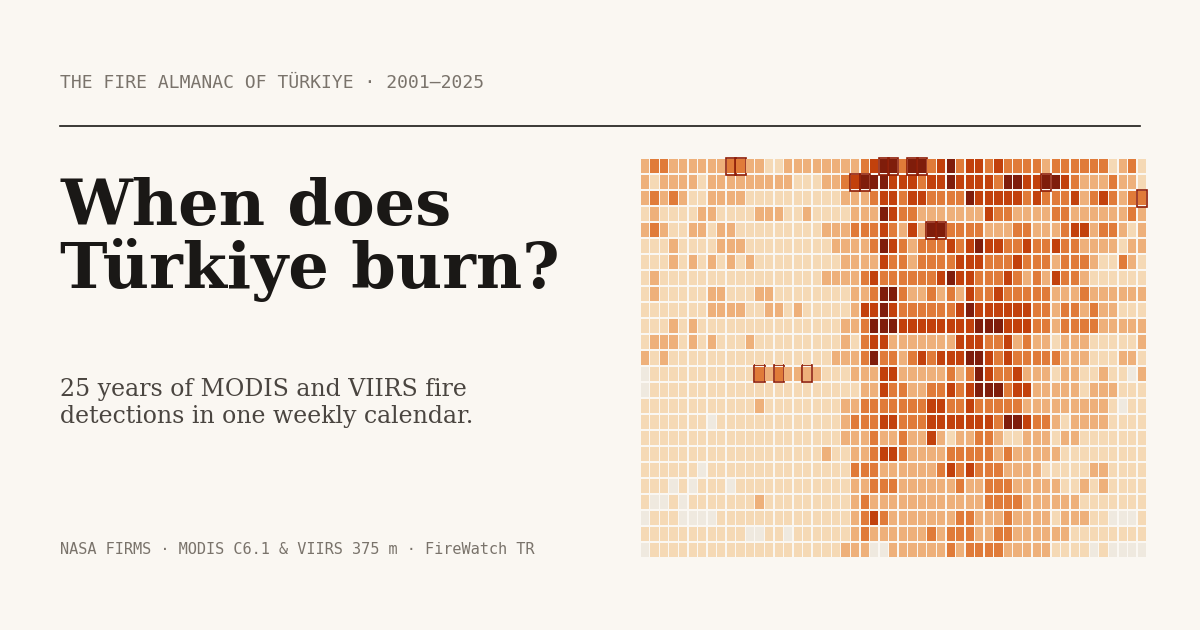
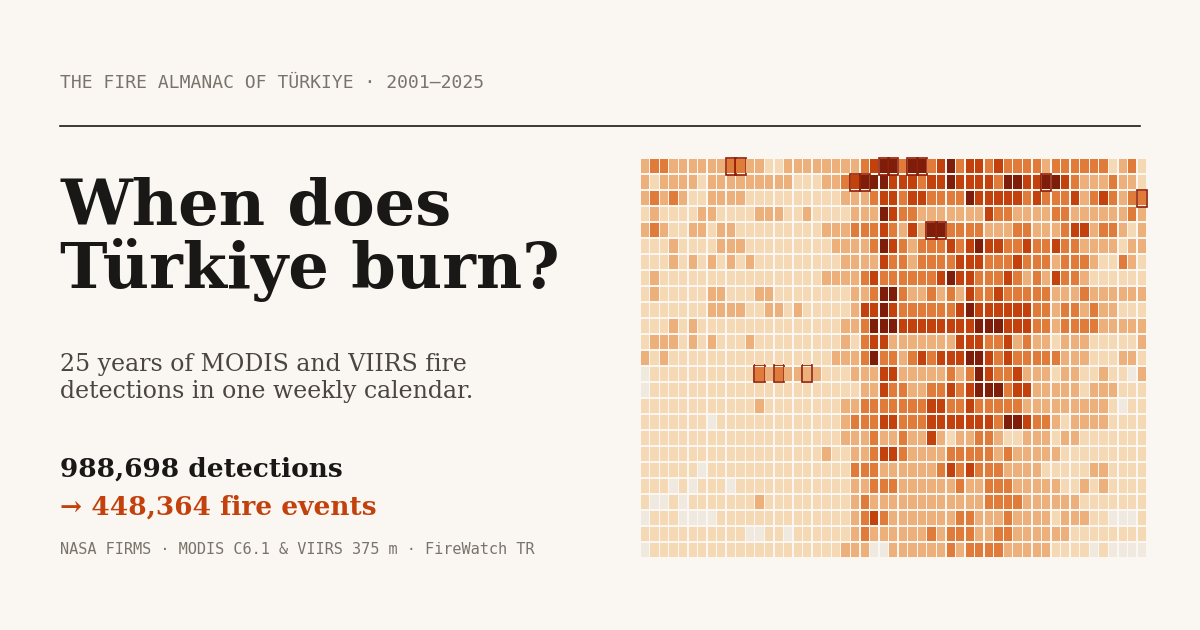
Refresh app screenshot and OG cover with final counts, add GISTEMP climate figure, drop season-length trend from results

Changed region(s): [[0.0308, 0.5429, 0.4008, 0.6937], [0.0308, 0.7238, 0.3083, 0.754], [0.0617, 0.7841, 0.3083, 0.8143]]

diff --git a/src/present_figures.py b/src/present_figures.py
@@ -201,7 +201,10 @@ def og_cover():
     fig.patch.set_facecolor(PAPER)
     fig.text(0.05, 0.86, "THE FIRE ALMANAC OF TÜRKIYE · 2001–2025", family="monospace", fontsize=13, color=MUTED)
     fig.text(0.05, 0.62, "When does\nTürkiye burn?", fontsize=46, fontweight="bold", color=INK, va="center", linespacing=1.0)
-    fig.text(0.05, 0.36, "25 years of MODIS and VIIRS fire\ndetections in one weekly calendar.", fontsize=17, color=INK2, va="center")
+    fig.text(0.05, 0.40, "25 years of MODIS and VIIRS fire\ndetections in one weekly calendar.", fontsize=17, color=INK2, va="center")
+    n_det, n_ev = int(r["det_modis"].sum() + r["det_viirs"].sum()), int(r["new_events"].sum())
+    fig.text(0.05, 0.255, f"{n_det:,} detections", fontsize=19, fontweight="bold", color=INK, va="center")
+    fig.text(0.05, 0.195, f"→ {n_ev:,} fire events", fontsize=19, fontweight="bold", color=ACCENT, va="center")
     fig.text(0.05, 0.12, "NASA FIRMS · MODIS C6.1 & VIIRS 375 m · FireWatch TR", family="monospace", fontsize=11, color=MUTED)
     fig.add_artist(plt.Line2D([0.05, 0.95], [0.80, 0.80], color=INK, lw=1.2, transform=fig.transFigure))
     ax = fig.add_axes([0.53, 0.10, 0.43, 0.66])
@@ -225,6 +228,73 @@ def og_cover():
     print("wrote docs/og.png, docs/og-icon.png")
 
 
+def fig_climate():
+    """Global temperature anomaly (NASA GISTEMP v4, J-D) vs Türkiye's yearly fire energy, 2001-2025.
+
+    Fire energy is the MODIS-only record (Terra+Aqua, inside the 81 provinces): it is the only
+    sensor-consistent series for the whole period. The harmonized/VIIRS totals rise when new VIIRS
+    satellites join (2012, 2018, 2023), which would correlate with any upward trend, so their r is
+    reported for comparison only. Correlation, not causation.
+    """
+    g = pd.read_csv(ROOT / "data" / "gistemp" / "GLB.Ts+dSST.csv", skiprows=1, na_values="***")
+    g = g[g["Year"].between(2001, 2025)].set_index("Year")["J-D"].astype(float)
+    cal = json.loads((OUT / "calendar_daily.json").read_text(encoding="utf-8"))
+    tot = {}
+    for mode in ("modis", "harmonized"):
+        r = pd.DataFrame(cal["records"][mode]["TR"])
+        tot[mode] = r.groupby(pd.to_datetime(r["day"]).dt.year)["frp_mw"].sum().reindex(g.index).fillna(0)
+    y = tot["modis"] / 1000  # GW
+    pr, sr = stats.pearsonr(g, y), stats.spearmanr(g, y)
+    yrs = g.index.to_numpy()
+    detr = lambda v: v - np.polyval(np.polyfit(yrs, v, 1), yrs)
+    pd_ = stats.pearsonr(detr(g.to_numpy()), detr(y.to_numpy()))
+    ph = stats.pearsonr(g, tot["harmonized"])
+    res = {"years": [int(yrs[0]), int(yrs[-1])], "n": int(len(yrs)),
+           "gistemp_series": "GISTEMP v4 global land-ocean, annual (J-D), anomaly vs 1951-1980 (deg C)",
+           "frp_series": "MODIS Terra+Aqua, yearly sum of daily FRP inside Türkiye (MW)",
+           "modis": {"pearson_r": round(float(pr[0]), 3), "p": round(float(pr[1]), 3),
+                     "spearman_rho": round(float(sr[0]), 3), "spearman_p": round(float(sr[1]), 3),
+                     "detrended_pearson_r": round(float(pd_[0]), 3), "detrended_p": round(float(pd_[1]), 3)},
+           "harmonized_for_comparison": {"pearson_r": round(float(ph[0]), 3), "p": round(float(ph[1]), 4),
+                                         "note": "inflated by VIIRS satellites joining in 2012, 2018, 2023"}}
+    (OUT / "climate.json").write_text(json.dumps(res, indent=2, ensure_ascii=False), encoding="utf-8")
+
+    fig = plt.figure(figsize=(13, 5.6))
+    gs = fig.add_gridspec(2, 2, width_ratios=[1.75, 1], height_ratios=[1, 1.35], hspace=0.12, wspace=0.22)
+    a1 = fig.add_subplot(gs[0, 0])
+    a2 = fig.add_subplot(gs[1, 0], sharex=a1)
+    a3 = fig.add_subplot(gs[:, 1])
+    a1.plot(yrs, g, "-o", color=INK, ms=3.5, lw=1.6)
+    a1.set_ylabel("global temp.\nanomaly (°C)")
+    a1.tick_params(labelbottom=False)
+    a1.set_title("Global temperature and Türkiye's fire energy, 2001–2025", fontsize=13.5)
+    cols = [ACCENT if yy == 2021 else MODIS for yy in yrs]
+    a2.bar(yrs, y, 0.72, color=cols)
+    a2.set_ylabel("fire energy (GW,\nMODIS, yearly sum)")
+    a2.text(2021, y.loc[2021], "2021", ha="center", va="bottom", fontsize=9, color=ACCENT)
+    a3.scatter(g, y, s=34, color=MODIS, edgecolor=PAPER, lw=0.6, zorder=3)
+    a3.scatter([g.loc[2021]], [y.loc[2021]], s=46, color=ACCENT, zorder=4)
+    for yy in (2001, 2009, 2021, 2025):
+        a3.annotate(str(yy), (g.loc[yy], y.loc[yy]), xytext=(5, 3), textcoords="offset points", fontsize=8.5,
+                    color=ACCENT if yy == 2021 else INK2)
+    a3.set_xlabel("global temperature anomaly (°C)")
+    a3.set_ylabel("fire energy (GW)")
+    m = res["modis"]
+    a3.set_title(f"Pearson r = {m['pearson_r']:.2f} (p = {m['p']:.2f})", fontsize=12)
+    a3.text(0.98, 0.97, f"Spearman ρ = {m['spearman_rho']:.2f} (p = {m['spearman_p']:.2f})\n"
+                        f"detrended r = {m['detrended_pearson_r']:.2f}\nn = {res['n']} years",
+            transform=a3.transAxes, fontsize=9, color=INK2, va="top", ha="right", family="monospace")
+    fig.text(0.01, -0.035,
+             "Sources: NASA FIRMS; NASA GISTEMP. Fire energy: MODIS Terra+Aqua only (Aqua from Jul 2002), the "
+             "sensor-consistent record.\nThe merged MODIS+VIIRS total gives r = "
+             f"{res['harmonized_for_comparison']['pearson_r']:.2f}, mostly because VIIRS satellites joined in "
+             "2012, 2018 and 2023. Correlation, not causation.",
+             fontsize=8.5, color=MUTED, family="monospace", ha="left", va="top")
+    fig.savefig(FIG / "slide_climate.png", dpi=300, bbox_inches="tight", pad_inches=0.25)
+    plt.close(fig)
+    print("wrote", FIG / "slide_climate.png", res["modis"])
+
+
 if __name__ == "__main__":
     fig_2021()
     fig_before_after()
@@ -232,3 +302,4 @@ if __name__ == "__main__":
     fig_match()
     fig_dedup()
     og_cover()
+    fig_climate()

diff --git a/README.md b/README.md
@@ -25,7 +25,7 @@ covers parts of neighbouring countries; those events are kept in the files but n
 | Harmonized fire events inside Türkiye | **448,364** (2.2 detections per event) |
 | Seen by both sensors / MODIS only / VIIRS only | 7.8% / 22.9% / 69.2% of events (8.7% of fire-days seen by both) |
 | Most unusual week, Türkiye, fire energy | **26 Jul – 1 Aug 2021**: 601,798 MW, 35× the 2012–2025 mean for that week (z = 54); next: 2–8 Aug 2021 (z = 17) |
-| Fire-season length trend | **+4.9 days/yr** (MODIS, 2001–2025, p < 0.001) and **+7.0 days/yr** (VIIRS S-NPP, 2012–2025, p = 0.014); no significant trend in total FRP |
+| Yearly fire energy vs global temperature (NASA GISTEMP) | MODIS record, 2001–2025: Pearson r = 0.10 (p = 0.64), no detectable relationship; no significant trend in total FRP |
 
 **The 2021 check.** Summer 2021 (Manavgat, Marmaris) is the strongest anomaly in the
 whole archive when activity is measured as fire energy. Nationally, however, it is
@@ -88,6 +88,14 @@ from the pipeline outputs.
 
 Source: NASA FIRMS (Fire Information for Resource Management System),
 <https://firms.modaps.eosdis.nasa.gov/>. Standard-processing (science-quality) archive.
+
+| Climate product | Provider | Resolution | Used period |
+|---|---|---|---|
+| GISTEMP v4 global land-ocean temperature anomaly (annual J-D, vs 1951–1980) | NASA GISS | global mean | 2001–2025 |
+
+Source: NASA Goddard Institute for Space Studies, <https://data.giss.nasa.gov/gistemp/>
+(open CSV `tabledata_v4/GLB.Ts+dSST.csv`, no key; copy in `data/gistemp/`). Used only for
+the climate comparison figure.
 
 **How the data was fetched.** `src/fetch_firms.py` downloaded the four standard-processing
 sources (`MODIS_SP`, `VIIRS_SNPP_SP`, `VIIRS_NOAA20_SP`, `VIIRS_NOAA21_SP`) through the FIRMS
@@ -193,17 +201,21 @@ All numbers come from `output/validation.json` (written by `src/validate.py`).
 | `figures/frp_scatter.png`, `figures/slide_frp_scatter.png` | FRP of Aqua vs S-NPP/NOAA-20 for the same event, passes ≤ 30 min apart | n = 25,171 pairs; **Pearson r (log) = 0.69**, Spearman ρ = 0.63, log-log slope 0.78; median VIIRS/MODIS ratio 0.81 (day r = 0.69, night r = 0.74) |
 | `figures/dedup.png`, `figures/slide_dedup.png` | Raw detections vs harmonized events per year (whole download box) | 1,423,446 → 598,750 (**2.4×**); the ratio rises after 2012, 2018 and 2023 as VIIRS satellites add repeat looks |
 | `figures/small_fire_example.png` | FRP distribution of VIIRS-only vs both-sensor events, and one small fire missed by MODIS | VIIRS-only events: median max FRP **3.8 MW** vs 20.2 MW for both-sensor events. Example H478349 (Ankara, 24–25 Oct 2023): 4 VIIRS detections on 4 passes, max 0.9 MW, **no MODIS detection within 15 km** |
-| `figures/insight.png` | Season start/end/length and total FRP per year, single-sensor records, Theil–Sen + Kendall | Season length +4.9 d/yr (MODIS, p < 0.001) and +7.0 d/yr (S-NPP, p = 0.014), mostly from later season ends; season start earlier for MODIS (p = 0.003) but not significant for S-NPP (p = 0.08); **no significant trend in total FRP** (p = 0.50 / 0.91) |
+| `figures/insight.png` | Season start/end/length and total FRP per year, single-sensor records, Theil–Sen + Kendall **No significant trend in total FRP** (p = 0.50 / 0.91). The 10–90% season-length statistic also shows a positive slope, but it is not used as a result (see Limitations) |
 | `figures/calendar_2021_check.png`, `figures/slide_2021_unusual.png` | Türkiye 2021 weekly totals vs leave-one-out mean | FRP weeks 30–31: z = 54 and 17; event counts: not anomalous (see above) |
 
 **Slide figures** (`src/present_figures.py`, 300 dpi, paper background):
 `figures/slide_2021_unusual.png` (summer 2021 flagged in the calendar),
 `figures/slide_before_after.png` (29 July 2021, Manavgat: 1,540 detections → 3 events),
 `figures/slide_frp_scatter.png` (r = 0.69), `figures/slide_match_rates.png` and
-`figures/slide_dedup.png` (raw detections vs fire events per year).
+`figures/slide_dedup.png` (raw detections vs fire events per year) and
+`figures/slide_climate.png` (yearly fire energy vs NASA GISTEMP, r = 0.10).
 
-The season-length trend counts all vegetation fires, including agricultural burning;
-it does not by itself say why seasons got longer.
+`figures/slide_climate.png` compares NASA GISTEMP v4 global annual temperature anomaly with
+Türkiye's yearly fire energy from the MODIS record (the only sensor-consistent series for
+2001–2025): Pearson r = 0.10 (p = 0.64), Spearman ρ = 0.17 (p = 0.43), detrended r = −0.11.
+The merged MODIS+VIIRS total gives r = 0.77, but that mostly reflects VIIRS satellites joining in
+2012, 2018 and 2023, not fire. Correlation is reported, not causation. Values in `output/climate.json`.
 
 ## Run it
 
@@ -248,6 +260,14 @@ the transaction limit.
   Rectangle selection uses event centroids too.
 * **Fixed thresholds.** 12 h / footprint + 0.375 km and the confidence weights are
   reasoned defaults, not fitted parameters; they are tested and easy to change.
+* **Fire-season length is not a reliable trend here.** `validate.py` defines the season as
+  the 10th–90th percentile of event start dates in each calendar year and counts all
+  vegetation fires, agricultural burning included. In Türkiye that distribution is bimodal
+  (small winter/spring and autumn burns vs the summer peak), so the 10% date jumps between
+  modes (e.g. day 155 in 2011, day 46 in 2021) as the share of off-season small fires
+  changes (Nov–Dec share of MODIS detections: about 4–10% before 2012, 15–30% after). The
+  single-sensor record removes satellite additions but not Terra/Aqua orbit drift. The
+  positive slope (MODIS +4.9 d/yr) is therefore kept as a diagnostic, not a result.
 * **z-scores at low counts.** With 14 baseline years and skewed weekly totals, z > 1.5
   fires in roughly 10% of weeks; the ranked "most unusual weeks" list and the strong
   outline (z ≥ 5) separate exceptional periods from noise.

diff --git a/SONUC.md b/SONUC.md
@@ -24,13 +24,14 @@ _Son güncelleme: 15 Kasım 2026, ~04:20 TR. Veri: **FIRMS Area API**, 3.621/3.6
 | Eşleşme MODIS→VIIRS (≤12 sa) | gündüz %56, gece %62 |
 | Eşleşme VIIRS→MODIS (≤12 sa) | gündüz %27, gece %31 |
 | En sıra dışı hafta (Türkiye, yangın enerjisi) | 26 Tem–1 Ağu 2021: 601.798 MW, ortalamanın **34,9 katı**, z = 54; ardından 2–8 Ağu 2021 (z = 17) |
-| Trend | Sezon uzunluğu MODIS +4,9 gün/yıl (p<0,001), VIIRS S-NPP +7,0 gün/yıl (p=0,014); toplam FRP'de anlamlı trend yok |
+| Trend | Toplam FRP'de anlamlı trend yok. Sezon uzunluğu eğimi (MODIS +4,9 gün/yıl) tanım sorunu nedeniyle sunumda **kullanılmıyor**, yalnızca README Limitations'ta |
+| İklim (GISTEMP) | MODIS yıllık FRP vs küresel sıcaklık anomalisi: r = 0,10 (p = 0,64), ilişki yok. Birleşik kayıtta r = 0,77 ama uydu eklenmelerinden kaynaklı |
 | Testler | `pytest` 21/21 geçti |
 
 **2021 kontrolü:** Temmuz–Ağustos 2021 yangın enerjisinde arşivin en uç dönemi ve takvimde 1. ve 2. sırada. Ülke genelinde *olay sayısında* sıra dışı değil (z −1,3…−0,2), çünkü dev yangınlar tek olaya indiriliyor. Antalya ve Muğla'da iki metrikte de çok belirgin. Varsayılan metrik bu yüzden FRP.
 
 ### Üretilen figürler (`figures/`)
-- Slayt (300 dpi, kağıt zemin, kaynak satırlı): `slide_2021_unusual.png`, `slide_before_after.png` (1.540 tespit → 3 olay), `slide_frp_scatter.png` (r = 0,69), `slide_match_rates.png`, `slide_dedup.png`
+- Slayt (300 dpi, kağıt zemin, kaynak satırlı): `slide_2021_unusual.png`, `slide_before_after.png` (1.540 tespit → 3 olay), `slide_frp_scatter.png` (r = 0,69), `slide_match_rates.png`, `slide_dedup.png`, `slide_climate.png`
 - Doğrulama: `match_rates.png`, `frp_scatter.png`, `dedup.png`, `small_fire_example.png` (Ankara, Eki 2023: 4 VIIRS tespiti, 15 km içinde MODIS yok), `insight.png`, `calendar_2021_check.png`
 - Uygulama görüntüsü: `app_calendar.jpg`; sosyal önizleme kapağı: `docs/og.png`
 
@@ -54,7 +55,7 @@ _Son güncelleme: 15 Kasım 2026, ~04:20 TR. Veri: **FIRMS Area API**, 3.621/3.6
 2. **firewatch-tr-backend facts dosyası yok:** `public/nature/facts.json` bulunamadı. Doğrulanmış havuz firewatch-tr uygulamasındaki `assets/data/nature_facts.json`. 15 bilgi oradan (hepsi "Doğrulandı") salt okunarak alındı, üslubu sadeleştirildi, anlam ve kaynak aynı. Firewatch repolarına yazılmadı.
 3. **İzin engeli:** Pipeline'a (`meta.json`) il içi sayaç ekleme isteği otomatik izin sistemi tarafından reddedildi (pipeline'a dokunma kuralı). Aynı sayılar sunum katmanında `calendar/TR.json`'dan hesaplanıyor, sonuç etkilenmedi.
 4. **MODIS sayısı farkı:** Area API'deki MODIS tespiti (il içi 232.808), ülke arşivindekinden (242.661) biraz az. Ülke dosyası sınır ve kıyıda tampon kullanıyor olabilir; incelenmedi.
-5. **`figures/app_calendar.jpg`** ülke-arşivi verisiyle alınmış ekran görüntüsü; görünüm aynı, küçük sayı farkları var. İsterseniz yenilenir.
+5. **`figures/app_calendar.jpg`** ve `docs/og.png` Area API verisiyle yenilendi (988.698 tespit → 448.364 olay görünüyor). `figures/insight.png` başlığındaki "season lengthened" cümlesi eski; figür sadece doğrulama amaçlı, sunumda kullanmayın.
 6. Bilinen yöntem sınırlamaları README "Limitations" bölümünde: homojen olmayan sensör kaydı, Terra/Aqua yörünge kayması, statik kaynaklar, il = olay merkezi.
 
 ---
